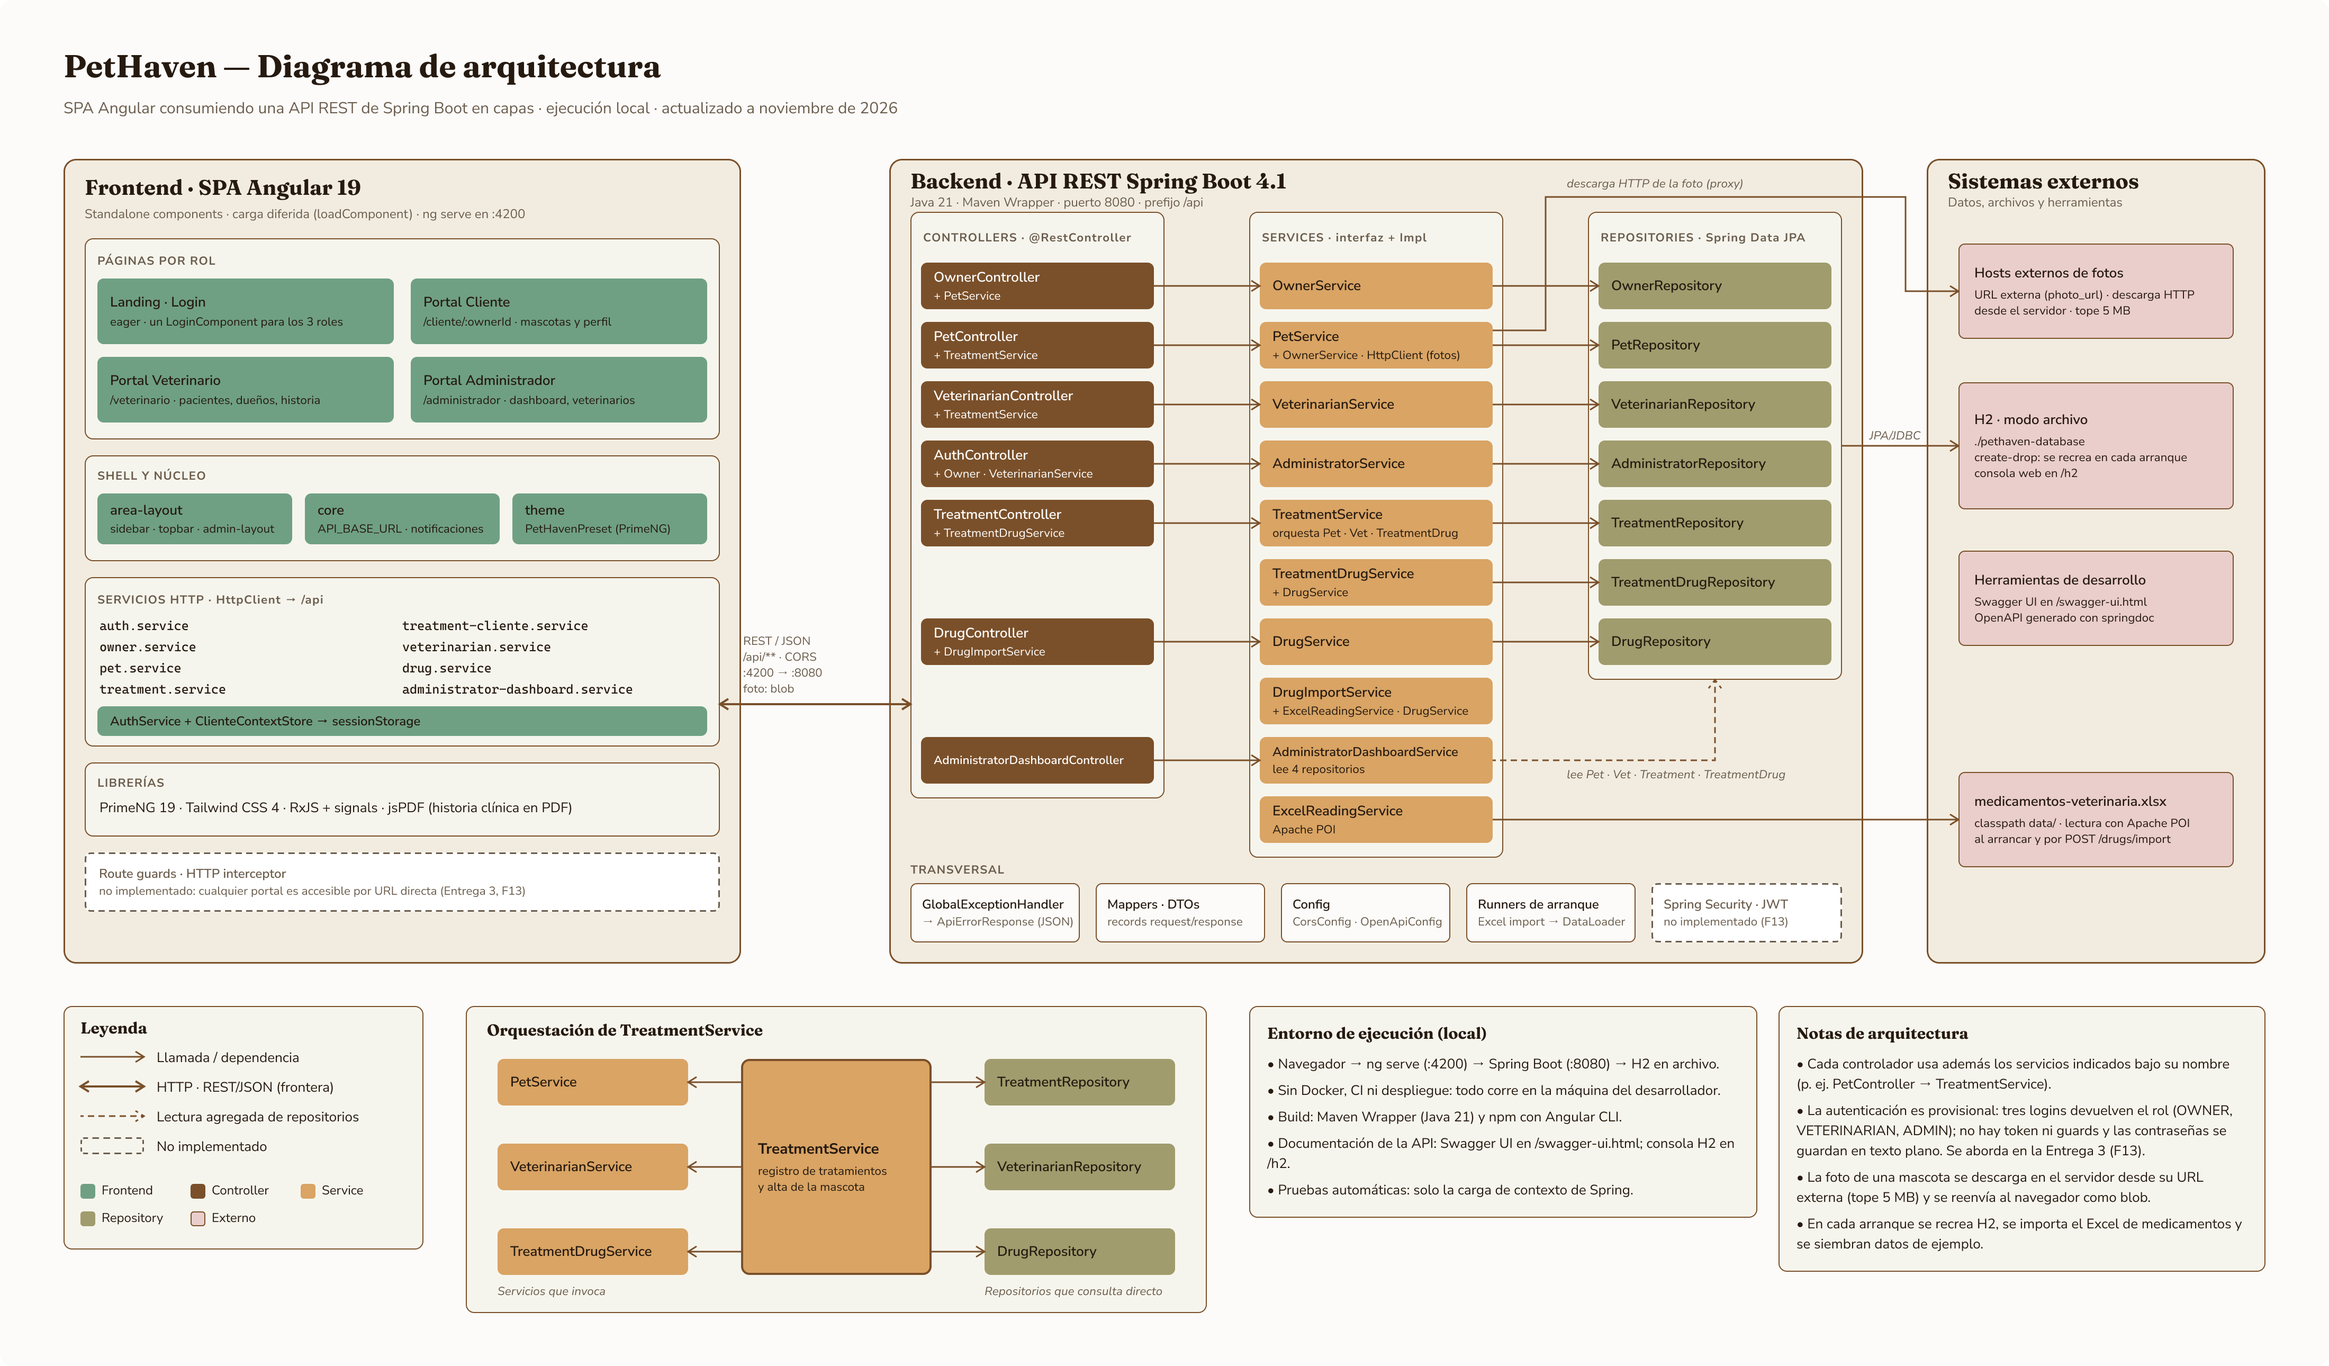
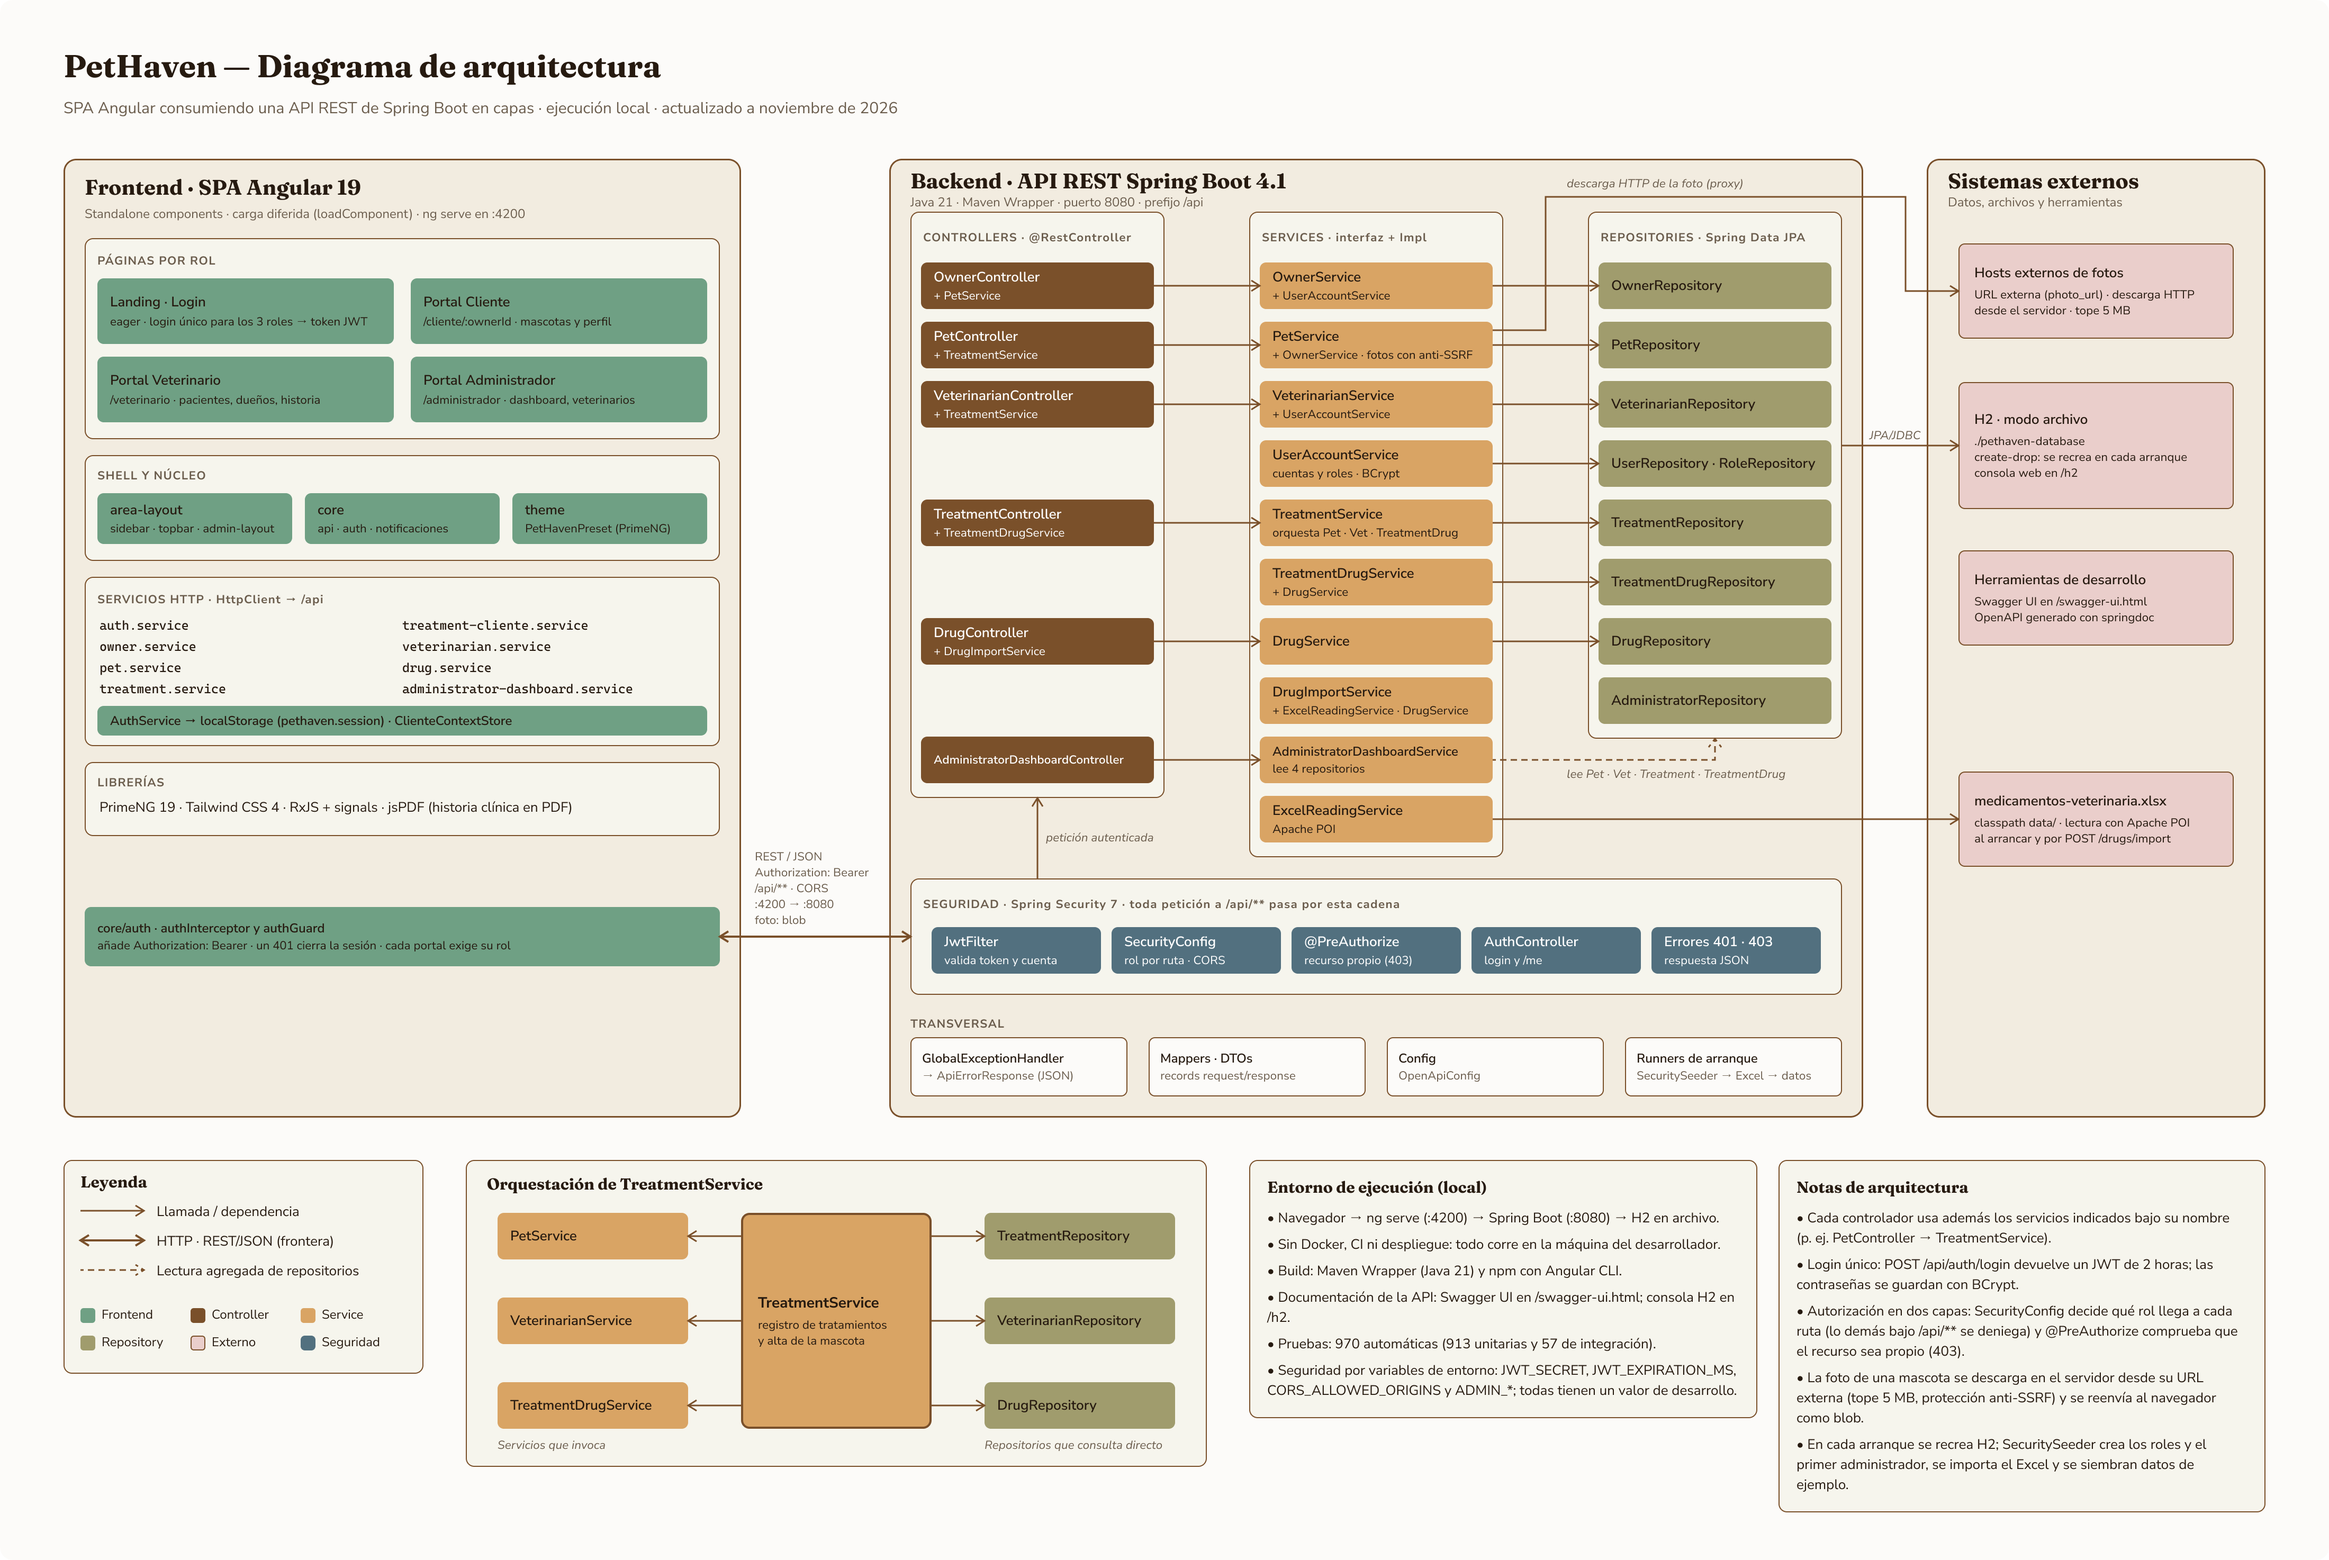
docs(architecture): update diagrams with the security layer
Re-export the ER, domain class and architecture diagrams from Figma with login accounts, roles, Spring Security and JWT. The ER diagram now shows the native H2 enum columns. Remove the README note that marked the diagrams as pending.

Changed region(s): [[0.0311, 0.031, 0.9964, 0.9612], [0.0311, 0.7752, 0.1557, 0.8992]]

diff --git a/README.md b/README.md
@@ -407,8 +407,7 @@ Los cambios se integran primero en `desarrollo`; solo cuando todo está funciona
 
 El contrato de la API REST está en [docs/api/API.md](docs/api/API.md), con ejemplos de peticiones en [docs/api/pethaven.http](docs/api/pethaven.http).
 
-> [!NOTE]
-> Los diagramas de `docs/architecture` se mantienen en Figma y **están pendientes de actualizar** con la capa de seguridad: cuentas de login (`users`), roles (`roles`, `user_roles`), Spring Security y JWT. Mientras tanto, el modelo de datos vigente es el de [API.md](docs/api/API.md#modelo-de-datos).
+Los diagramas de `docs/architecture` se mantienen en Figma y se exportan aquí. Incluyen la capa de seguridad: cuentas de login (`users`), roles (`roles`, `user_roles`), Spring Security y JWT.
 
 <details>
 <summary><b>Identidad de marca</b></summary>
@@ -431,7 +430,7 @@ El contrato de la API REST está en [docs/api/API.md](docs/api/API.md), con ejem
 <details>
 <summary><b>Diagrama de arquitectura</b></summary>
 <br/>
-<img src="docs/architecture/Diagrama-Arquitectura.png" alt="Diagrama de arquitectura: SPA Angular, API REST Spring Boot en capas y sistemas externos" width="900"/>
+<img src="docs/architecture/Diagrama-Arquitectura.png" alt="Diagrama de arquitectura: SPA Angular, API REST Spring Boot en capas con Spring Security y sistemas externos" width="900"/>
 </details>
 
 <details>
